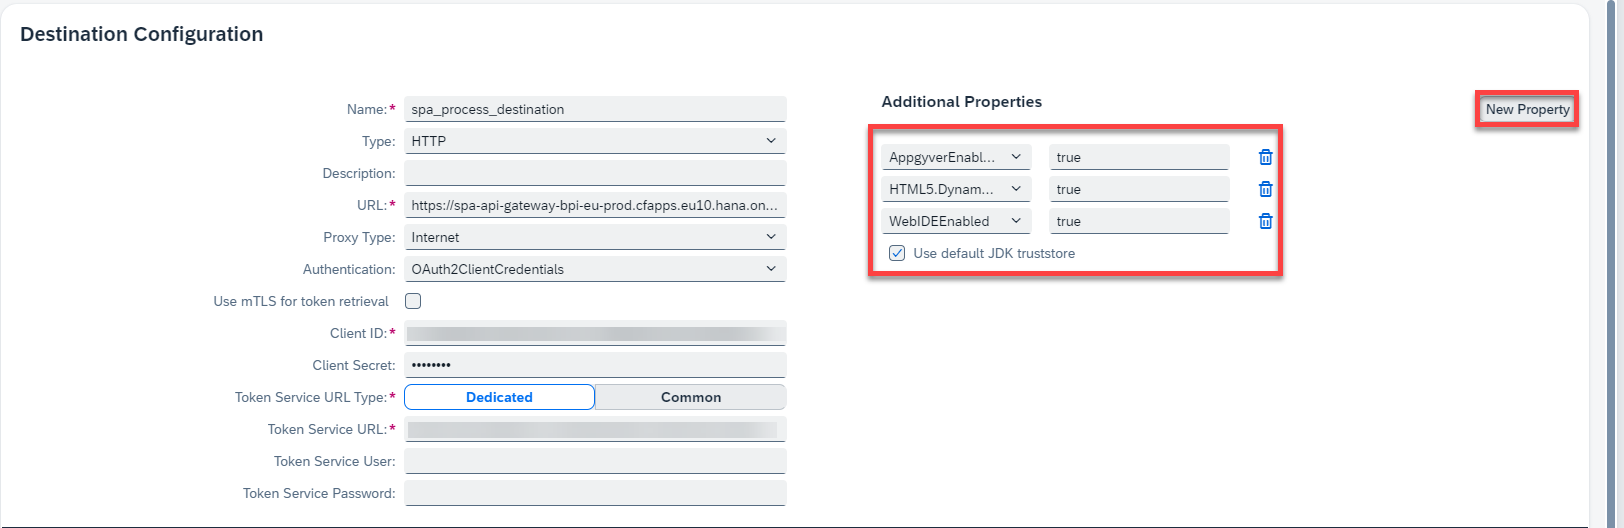
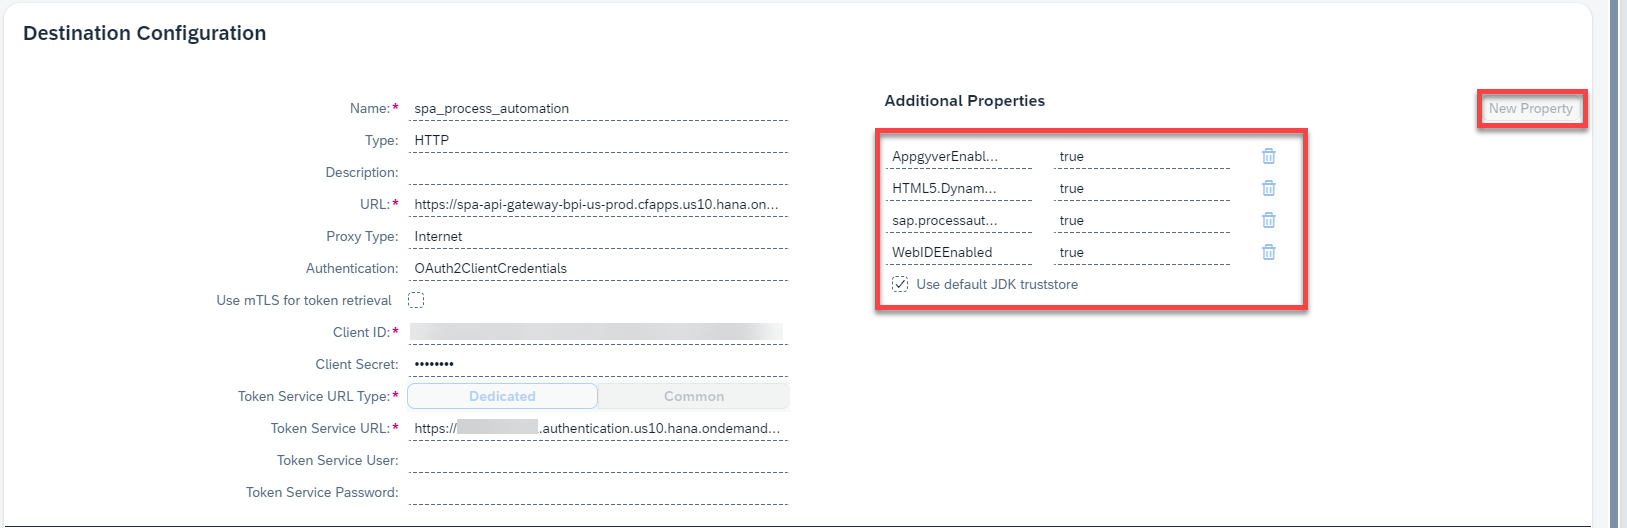
updates api

diff --git a/tutorials/spa-create-service-instance-destination/spa-create-service-instance-destination.md b/tutorials/spa-create-service-instance-destination/spa-create-service-instance-destination.md
@@ -72,6 +72,7 @@ Once you have successfully subscribed to SAP Build Process Automation in SAP BTP
 
 4. After the key is provisioned, open it and take note of the following fields:
 
+    - `api`
     - `clientid`
     - `clientsecret`
     - `url`
@@ -93,11 +94,11 @@ Once you have successfully subscribed to SAP Build Process Automation in SAP BTP
     | Name | any name (`spa_process_destination`)
     | Type | HTTP
     | Description | any description
-    | URL | `https://spa-api-gateway-bpi-eu-prod.cfapps.eu10.hana.ondemand.com/public/workflow/rest/v1/workflow-instances`
+    | URL | `api\public/workflow/rest/v1/workflow-instances`, where `api` is noted previously in step 2<div>&nbsp;</div> such as: `https://spa-api-gateway-bpi-us-prod.cfapps.us10.hana.ondemand.com/public/workflow/rest/v1/workflow-instances`
     | Proxy Type | Internet
     | Authentication |  OAuth2ClientCredentials
     | Use `mTLS` for token retrieval |  Off
-    | Client ID | Paste the clientid noted previously in step 2
+    | Client ID | Paste the client id noted previously in step 2
     | Client Secret | Paste the client secret noted previously in step 2
     | Token Service URL Type | Dedicated
     | Token Service URL|  `url/oauth/token`, where `url` is noted previously in step 2<div>&nbsp;</div>The final URL should be something like this: <div></div>`https://<your tenant>.authentication.<domain>.hana.ondemand.com/oauth/token`
@@ -109,6 +110,7 @@ Once you have successfully subscribed to SAP Build Process Automation in SAP BTP
     - `AppgyverEnabled`
     - `HTML5.DynamicDestination`
     - `WebIDEEnabled`  
+    - `sap.processautomation.enabled`
 
     <!-- border --> ![Create](11.png)    
 
